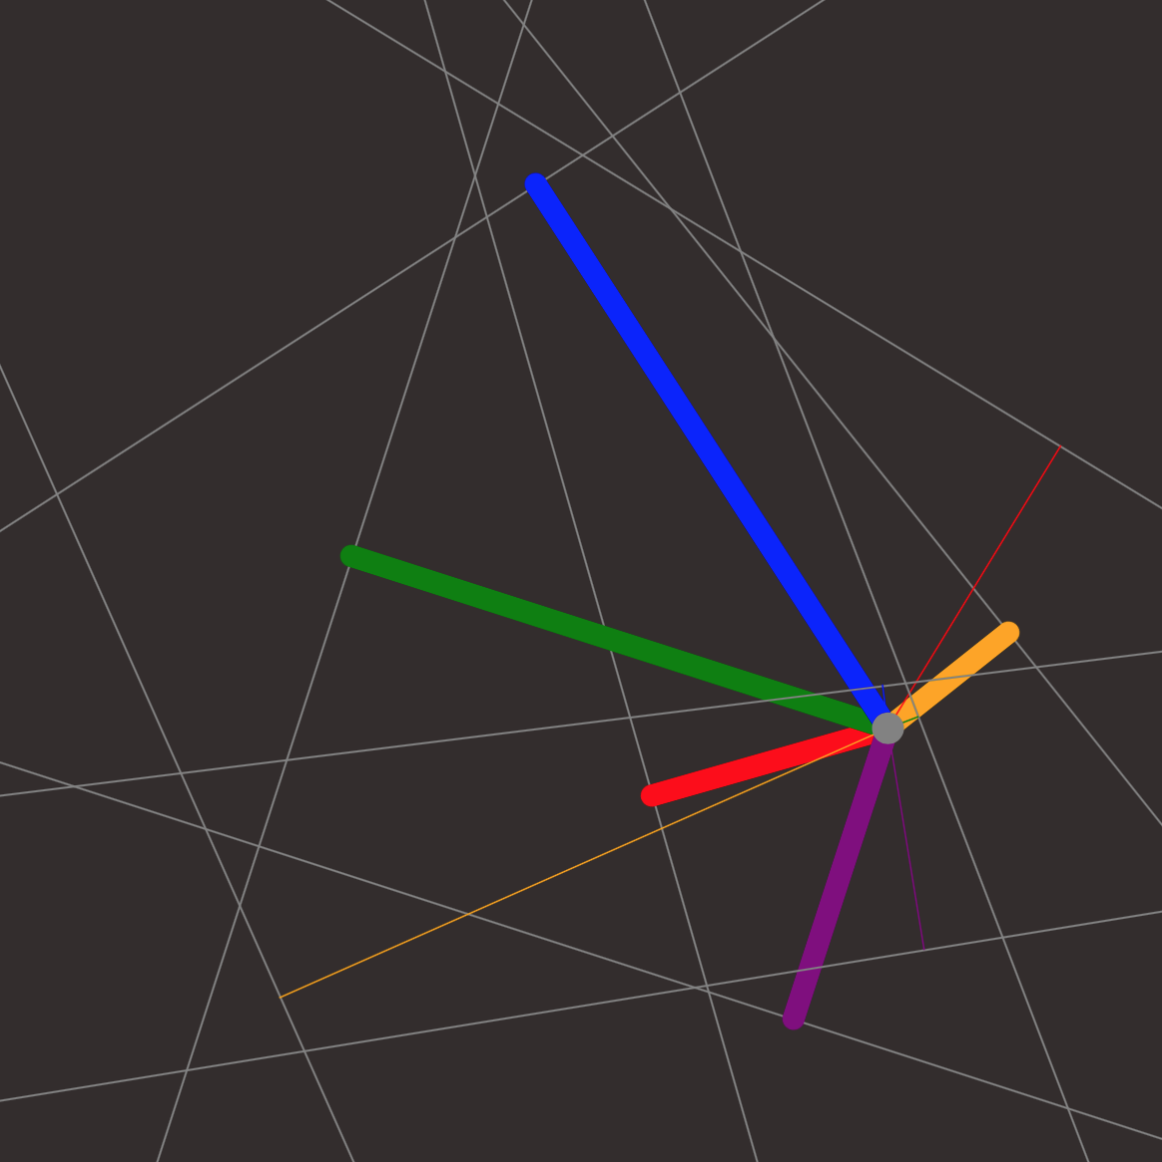
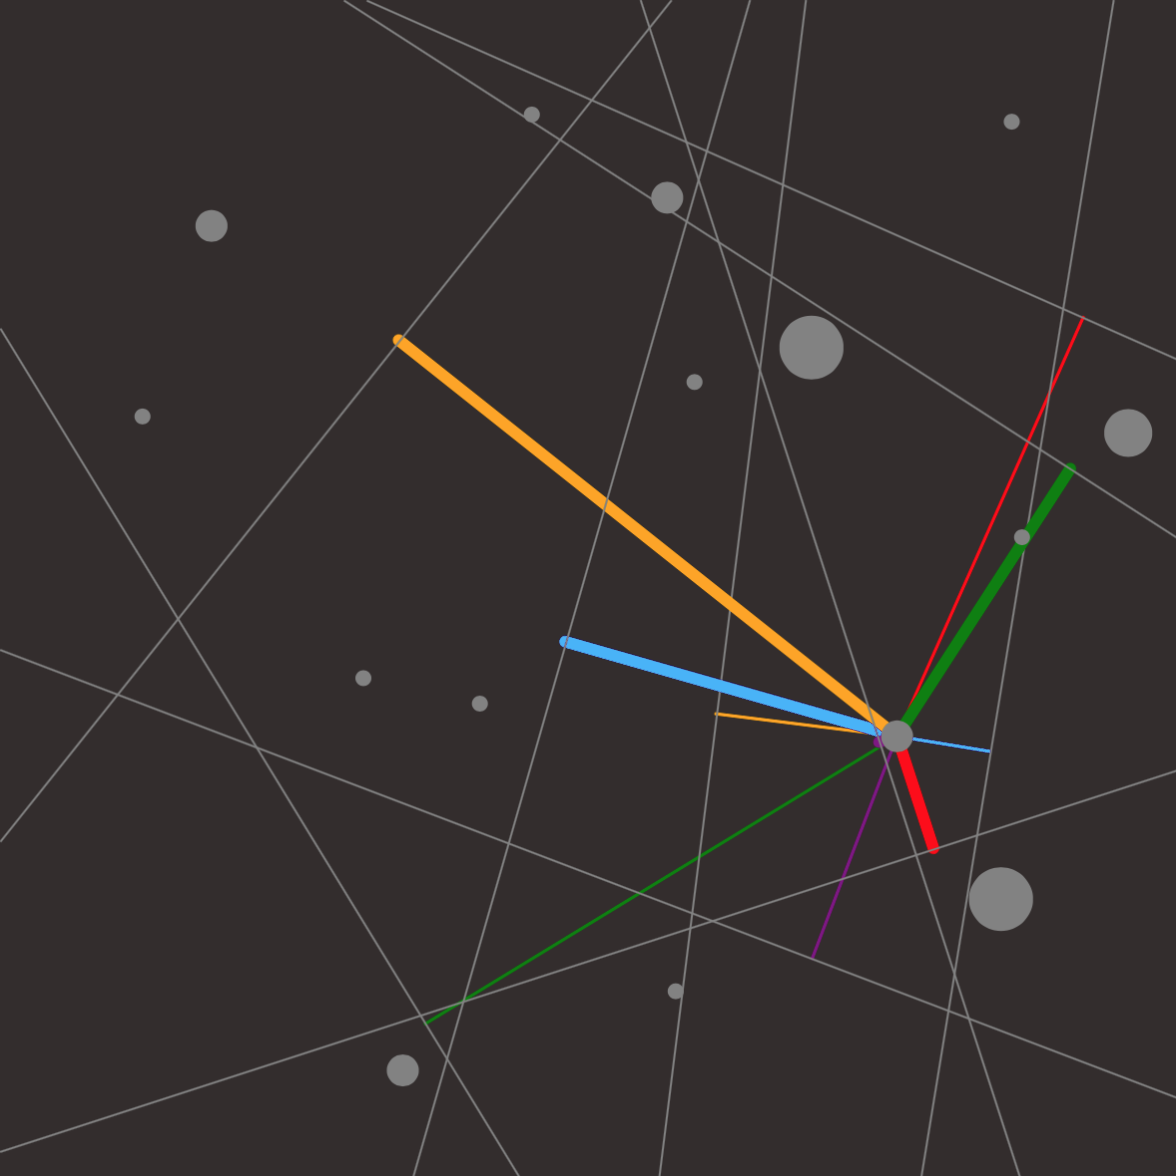
text changes

diff --git a/src/text.js b/src/text.js
@@ -2,14 +2,17 @@ const colors = require('./colors.js');
 const audio = require('./audio.js');
 
 const intro = [
+  // 0
   `
     <p>In 1958, John Cage wrote the piece <em>Variations I</em>, an early
-    example of aleatoric music.</p>
-    <p>In this style of nondeterministic composition, the composer sets up a
-    system of rules which determine the parameters of the piece.</p>
-    <p>The parts the musicians play are determined by chance, usually at the
-    time the piece is performed--not chosen beforehand by the composer.</p>
+    example of aleatoric (or "chance") music.</p>
+    <p>In this style of composition, the composer sets up a
+    system of rules which determine the parameters of the piece. The rules are
+    implemented using a random process.</p>
+    <p>Therefore, the parts the musicians play are determined by chance,
+    not chosen beforehand by the composer.</p>
   `,
+  // 1
   `
     <p>In <em>Variations I</em>, musicians are instructed to overlay a
     transparency containing dots with one or more transparencies containing
@@ -17,49 +20,49 @@ const intro = [
     <p>By measuring the distances from the dots to the lines, the musicians
     determine the pitch, volume, duration, first occurrence, and overtone
     structure they are to play.</p>
+    <p>I wrote this program to create unique performances of Cage's piece.</p>
   `,
+  // 2
   `
+    <p>This program will randomly choose an ensemble, and use Cage's
+    rules to determine what notes it will play.</p>
     <p>Because of the labor involved in calculating the piece's parameters,
-    Cage could only have imagined that a small fraction of the near-limitless
-    possible performances encoded in the piece's system would ever be performed.</p>
-    <p>But by implementing the system on a computer, this website can (theoretically)
-    generate all of them (well, all that include the available instruments).</p>
+    Cage could only have imagined that a small fraction of the
+    possible performances would ever be played.</p>
+    <p>Using this program, a new performance is generated
+    each time it is loaded, with you as the only audience who will ever hear it!</p>
   `,
+  // 3
   `
-    <p>After this introduction, a new piece will be generated and then played.</p>
-    <p>First, each dot will be assigned an instrument, the distances from
-    the dot to the various lines will be measured, and the notes' parameters
-    will be calculated from those measurements.</p>
-    <p>After all that has been done, the generated piece will play in full.</p>
-  `,
-  `
-    <p>Here's how we'll calculate the piece's parameters:</p>
-    <p>Each dot, one at a time, will be assigned an instrument. Some dots
+    <p>Here's how the program will calculate the piece's parameters:</p>
+    <p>Each dot will be assigned an instrument. Some dots
     (the bigger ones) play more than one note.</p>
-    <p>For each note the instrument will play, we select a random transparency,
-    choose a line to represent each parameter of the note, and measure to
-    calculate the parameter.</p>
+    <p>For each note the instrument will play, the program selects one of the four
+    transparencies. Each line corresponds to a parameter of the note. The program
+    measures the distance from the dot to the line to calculate the parameter.</p>
   `,
+  // 4
   `
-    <p>In the example at the right there are two notes:
+    <p>In the example at the right there are two notes. Each note has five parameters
+    (volume, pitch, length, overtone structure, first occurrence).
       <ul>
-        <li style="font-weight:600">a
-          <span style="color:${colors.amplitude}">loud</span>,
+        <li style="font-weight:600">One note is
+          <span style="color:${colors.amplitude}">louder</span>,
           <span style="color:${colors.lowestFreq}">lower</span>,
-          <span style="color:${colors.duration}">shorter</span> one with
-          <span style="color:${colors.overtone}">one overtone</span>, which starts
-          <span style="color:${colors.occurence}">later</span>
+          <span style="color:${colors.duration}">longer</span>, has
+          <span style="color:${colors.overtone}">no overtones</span>, and starts
+          <span style="color:${colors.occurence}">very early</span>.
         </li>
-        <li style="font-weight:100">and a
-          <span style="color:${colors.amplitude}">very soft</span>,
+        <li style="font-weight:200">The other note is
+          <span style="color:${colors.amplitude}">softer</span>,
           <span style="color:${colors.lowestFreq}">higher</span>,
-          <span style="color:${colors.duration}">longer</span> one with
-          <span style="color:${colors.overtone}">no overtones</span>, which starts
-          <span style="color:${colors.occurence}">earlier</span>
+          <span style="color:${colors.duration}">shorter</span> has
+          <span style="color:${colors.overtone}">one overtone</span>, and starts
+          <span style="color:${colors.occurence}">later</span>.
         </li>
       </ul>
     </p>
-    <p>Got it? Click one more time to create a unique piece</p>
+    <p>Got it? (It's ok if you don't.) Click one more time to create a unique piece.</p>
   `
 ];
 
@@ -72,7 +75,7 @@ function getIntroText(introStep) {
       Introduction ${introIndex + 1} of ${intro.length}
     </strong></div>
     ${intro[introIndex]}
-    ${clickToContinue}`;
+    ${introIndex < intro.length - 1 ? clickToContinue : ""}`;
 }
 
 function getNoteIntroText(note) {
@@ -115,10 +118,9 @@ function readyToPlay(score) {
   return `<div style="text-align:center"><strong>Ready to play!</strong></div>
     <p>Now that everything is set up, you're ready to hear your piece!</p>
     <p>Your piece is ${getLength(score)} long.</p>
-    <p>We'll switch the color scheme up a bit: now each note will be colored
-    according to its pitch (lower notes closer to the red end of the spectrum,
-    and higher notes closer to violet).</p>
-    <p>Click one more time to hear your creation!</p>`;
+    <p>Each note will be colored according to its pitch (lower notes closer to
+    the red end of the spectrum, and higher notes closer to violet).</p>
+    <p class="secondary">Click one more time to hear the creation built just for you!</p>`;
 }
 
 function getLength(score) {
@@ -135,7 +137,8 @@ function finished() {
     <p>This project was built using <a href="https://p5js.org/">p5.js</a>, and
     was inspired by
     <a href="https://teropa.info/blog/2016/07/28/javascript-systems-music.html">Javascript
-    Systems Music</a> by <a href="https://teropa.info/">Tero Parviainen</a></p>
+    Systems Music</a> by <a href="https://teropa.info/">Tero Parviainen</a>.</p>
+    <p>The code is available on <a href="https://github.com/nvioli/variations">github</a>.</p>
     <p>To create another piece,
     <a href="javascript:void(0)" onclick="location.reload();">refresh the page</a>.
     Note the links below to skip the introductory material.</p>

diff --git a/src/vis.js b/src/vis.js
@@ -14,12 +14,12 @@ const introImgPaths = [
   "score.jpg",
   "transparency.jpg",
   "cage.jpg",
-  "transparency.jpg",
   "example.png",
   "example.png"
 ];
 
 const preloadedImgs = [];
+let readyToPlayImg;
 
 function init(theScore) {
   score = theScore;
@@ -61,6 +61,9 @@ function preloadImgs() {
       preloadedImgs[idx] = preloadedImg;
     });
   });
+  p5.loadImage("cage2.jpg",img => {
+    readyToPlayImg = img;
+  });
 }
 
 function getDim() {
@@ -101,16 +104,21 @@ let done = false;
 function draw() {
   p5.background(colors.background);
   if (done) {
+    ga('send', 'event', 'johnCage', 'finished');
     showFinishedState();
   } else if (introStep > Object.keys(score).length + 1) {
     drawLiveScore();
   } else if (introStep < 0) {
+    ga('send', 'event', 'johnCage', 'textIntro');
     textIntro();
   } else if (introStep < Object.keys(score).length) {
+    ga('send', 'event', 'johnCage', 'noteIntro');
     noteIntro();
   } else if (introStep === Object.keys(score).length) {
+    ga('send', 'event', 'johnCage', 'readyToPlay');
     readyToPlay();
   } else {
+    ga('send', 'event', 'johnCage', 'started');
     introStep++;
     p5.loop();
     startScore();
@@ -169,13 +177,6 @@ function drawNote(instrument,note,attrColors,liveUpdate) {
 
 function noteIntro() {
   p5.stroke(colors.foreground).fill(colors.foreground);
-  // draw the point sheet
-  Object.keys(score).forEach(instrument => {
-    const point = score[instrument].point;
-    p5.strokeWeight(point.size * 4);
-    p5.ellipse(normalize(point.x),normalize(point.y),point.size * 4);
-  });
-
   const instrument = Object.keys(score)[introStep];
 
   let textStr = `<div style="text-align:center">${instrument} (instrument ${introStep + 1}
@@ -192,14 +193,30 @@ function noteIntro() {
     drawLines(note);
   });
 
-  textStr += `</ul>${text.clickToContinue}`;
+  textStr += `</ul>`;
 
   // add text describing the notes we built
   p5.select('#text').html(textStr);
+
+  // draw the point sheet
+  Object.keys(score).forEach(inst => {
+    const point = score[inst].point;
+    p5.strokeWeight(point.size * 4);
+    p5.ellipse(normalize(point.x),normalize(point.y),point.size * 4);
+  });
+
+  setTimeout(
+    () => {
+      introStep++;
+      p5.redraw();
+    },
+    (delay + 1) * 1000
+  );
 }
 
 function readyToPlay() {
   p5.select('#text').html(text.readyToPlay(score));
+  p5.image(readyToPlayImg,0,0,getDim(),getDim());
 }
 
 function showFinishedState() {

diff --git a/src/audio.js b/src/audio.js
@@ -90,7 +90,7 @@ function playNote(note,delay,rate) {
       note.isActive = false;
     },
     (delay + note.duration) * 1000
-    );
+  );
 }
 
 function playScore(p5,score) {
@@ -99,9 +99,21 @@ function playScore(p5,score) {
   playPart.loop();
   playPart.setBPM(10);
 
+  const zeroPattern = [0,0,0,0,0,0,0,0,0,0,0,0,0,0,0,0];
+  let noteOffset = 0;
+
   Object.keys(score).forEach(instrument => {
     score[instrument].notes.forEach(note => {
-      playPart.addPhrase(getPhrase(instrument,note,[1,0,0,0,0,0,0,0,0,0,0,0,0,0,0,0]));
+      const pattern = zeroPattern.slice();
+      pattern[noteOffset % 16] = 1;
+      console.log("adding " + getPhraseName(instrument,note) + " at offset " + noteOffset % 16);
+      setTimeout(
+        () => {
+          playPart.addPhrase(getPhrase(instrument,note,pattern));
+        },
+        note.delay * 1000
+      );
+      noteOffset++;
     });
   });
   Object.keys(score).forEach(instrument => {
@@ -109,7 +121,7 @@ function playScore(p5,score) {
       setTimeout(
         () => {
           // remove the parts in the reverse order they were added
-          playPart.removePhrase(instrument + note.pitch + note.octave + note.amplitude);
+          playPart.removePhrase(getPhraseName(instrument,note));
         },
         (getScoreDuration(score) - note.delay) * 1000
       );
@@ -118,6 +130,20 @@ function playScore(p5,score) {
 
   startTime = new Date();
   playPart.start();
+}
+
+function getPhrase(instrument,note,pattern) {
+  return new P5.Phrase(
+    getPhraseName(instrument,note),
+    (time,rate) => {
+      playNoteAndOvertones(note,time,rate);
+    },
+    pattern
+  );
+}
+
+function getPhraseName(instrument,note) {
+  return instrument + note.pitch + note.octave + note.amplitude;
 }
 
 function getScoreDuration(score) {
@@ -130,16 +156,6 @@ function getScoreDuration(score) {
     });
   });
   return maxDelay * 2;
-}
-
-function getPhrase(instrument,note,pattern) {
-  return new P5.Phrase(
-    instrument + note.pitch + note.octave + note.amplitude,
-    (time,rate) => {
-      playNoteAndOvertones(note,time + note.delay,rate);
-    },
-    pattern
-  );
 }
 
 function getPercentDone(score) {

diff --git a/dist/index.html b/dist/index.html
@@ -17,5 +17,14 @@
       &middot;
       <a href="javascript:void(0);" id="skipNotes"></a>
     </footer>
+    <script>
+      (function(i,s,o,g,r,a,m){i['GoogleAnalyticsObject']=r;i[r]=i[r]||function(){
+      (i[r].q=i[r].q||[]).push(arguments)},i[r].l=1*new Date();a=s.createElement(o),
+      m=s.getElementsByTagName(o)[0];a.async=1;a.src=g;m.parentNode.insertBefore(a,m)
+      })(window,document,'script','https://www.google-analytics.com/analytics.js','ga');
+
+      ga('create', 'UA-102763647-1', 'auto');
+      ga('send', 'pageview');
+    </script>
   </body>
 </html>

diff --git a/src/static/index.html b/src/static/index.html
@@ -17,5 +17,14 @@
       &middot;
       <a href="javascript:void(0);" id="skipNotes"></a>
     </footer>
+    <script>
+      (function(i,s,o,g,r,a,m){i['GoogleAnalyticsObject']=r;i[r]=i[r]||function(){
+      (i[r].q=i[r].q||[]).push(arguments)},i[r].l=1*new Date();a=s.createElement(o),
+      m=s.getElementsByTagName(o)[0];a.async=1;a.src=g;m.parentNode.insertBefore(a,m)
+      })(window,document,'script','https://www.google-analytics.com/analytics.js','ga');
+
+      ga('create', 'UA-102763647-1', 'auto');
+      ga('send', 'pageview');
+    </script>
   </body>
 </html>

diff --git a/src/colors.js b/src/colors.js
@@ -2,7 +2,7 @@ const audioUtils = require('./audioUtils.js');
 
 exports.lowestFreq = 'red';
 exports.overtone = 'green';
-exports.amplitude = 'blue';
+exports.amplitude = 'lightskyblue';
 exports.duration = 'orange';
 exports.occurence = 'purple';
 

diff --git a/src/static/styles.css b/src/static/styles.css
@@ -26,6 +26,9 @@ canvas {
 p {
   margin-top: 0;
 }
+a {
+  color: lightskyblue;
+}
 .small {
   font-size: 0.65em;
 }
